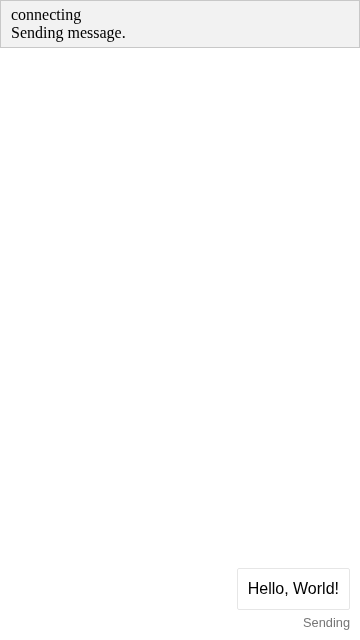
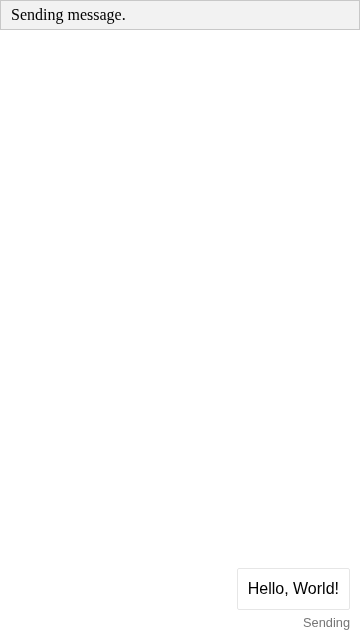
Update #6013's live region tests: the toaster no longer announces 'connecting'
activityStatus.longSend.echoBack.html and activityStatus.longSend.sharedKey.html (added in #6013) expected the toaster's 'connecting' first. Drop it; sharedKey's live region is now empty. Regenerate both snapshots: only the 'connecting' line is gone.

Changed region(s): [[0.0306, 0.0, 0.3361, 0.0625], [0.9778, 0.0312, 1.0, 0.0625]]

diff --git a/__tests__/html2/accessibility/liveRegion/activityStatus.longSend.sharedKey.html b/__tests__/html2/accessibility/liveRegion/activityStatus.longSend.sharedKey.html
@@ -74,12 +74,10 @@
 
         // THEN: "Sending message." is not announced: the narratable activity under the key is not the user's.
         // No wait needed: the fake clock runs timers inside `tick()` and React 16 (`webchat-es5.js`) renders synchronously.
-        expect(getLiveRegionTexts()).toEqual([
-          'connecting' // Announced by the toaster. No "Bot said": its key was already in the transcript.
-        ]);
+        expect(getLiveRegionTexts()).toEqual([]); // No "Bot said": its key was already in the transcript.
         expect(pageElements.activityStatuses()[0].innerText).toContain('Sending'); // The user's send status.
 
-        // THEN: The live region shows "connecting" only, the bot message shows the user's "Sending" status.
+        // THEN: The live region is empty, the bot message shows the user's "Sending" status.
         await host.snapshot('local');
       });
     </script>

diff --git a/__tests__/html2/accessibility/liveRegion/activityStatus.longSend.echoBack.html b/__tests__/html2/accessibility/liveRegion/activityStatus.longSend.echoBack.html
@@ -70,7 +70,6 @@
         // THEN: "Sending message." is announced.
         await waitFor(() =>
           expect(getLiveRegionTexts()).toEqual([
-            'connecting', // Announced by the toaster, which announces the first notification of every ID.
             'Sending message.' // No "You said": the message was not narratable when it was added.
           ])
         );
